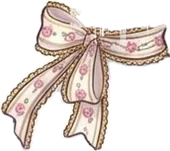
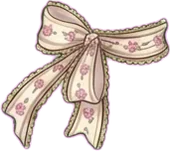
レースリボン6種を、リボンだけの画像から切り抜き直し
Claude-Session: https://claude.ai/code/session_01LsuWBkhUDp3d2Zrt24Lv8i

Changed region(s): [[0.0, 0.0, 1.0, 1.0], [0.4118, 0.5033, 0.4412, 0.5298]]

diff --git a/js/bigbottles.js b/js/bigbottles.js
@@ -109,12 +109,12 @@ const CHARMS = [
   { id: "k07", name: "さくら色のひらひらリボン", w: 155, h: 160, place: "neck", band: [0.27, 0.32, 0.49], kind: "ribbon" },
   { id: "k08", name: "水色のロングリボン", w: 115, h: 160, place: "neck", band: [0.28, 0.28, 0.54], scale: 0.82, kind: "ribbon" },
   // 金のレースのふちどりリボン
-  { id: "l00", name: "水色のレースリボン", w: 170, h: 153, place: "neck", band: [0.718, 0.303, 0.409], kind: "ribbon" },
-  { id: "l01", name: "さくら色のレースリボン", w: 166, h: 151, place: "neck", band: [0.735, 0.244, 0.462], kind: "ribbon" },
-  { id: "l02", name: "クリームのレースリボン", w: 156, h: 143, place: "neck", band: [0.715, 0.253, 0.435], kind: "ribbon" },
-  { id: "l03", name: "水色の花がらレースリボン", w: 170, h: 150, place: "neck", band: [0.662, 0.246, 0.479], kind: "ribbon" },
-  { id: "l04", name: "バラがらのレースリボン", w: 170, h: 151, place: "neck", band: [0.703, 0.296, 0.402], kind: "ribbon" },
-  { id: "l05", name: "ローズのレースリボン", w: 170, h: 150, place: "neck", band: [0.656, 0.19, 0.44], kind: "ribbon" },
+  { id: "l00", name: "水色のレースリボン", w: 170, h: 155, place: "neck", band: [0.717, 0.3, 0.402], kind: "ribbon" },
+  { id: "l01", name: "さくら色のレースリボン", w: 163, h: 147, place: "neck", band: [0.73, 0.21, 0.47], kind: "ribbon" },
+  { id: "l02", name: "クリームのレースリボン", w: 155, h: 143, place: "neck", band: [0.713, 0.252, 0.438], kind: "ribbon" },
+  { id: "l03", name: "水色の花がらレースリボン", w: 170, h: 152, place: "neck", band: [0.666, 0.244, 0.482], kind: "ribbon" },
+  { id: "l04", name: "バラがらのレースリボン", w: 170, h: 151, place: "neck", band: [0.708, 0.291, 0.405], kind: "ribbon" },
+  { id: "l05", name: "ローズのレースリボン", w: 170, h: 152, place: "neck", band: [0.659, 0.198, 0.435], kind: "ribbon" },
 ];
 
 // チャームの画像の場所（シリーズのチャームは charms/シリーズ名/ の中）

diff --git a/js/app.js b/js/app.js
@@ -23,7 +23,7 @@ const KCAL_PER_FAT_G = 7.2;  // 体脂肪1gあたりのカロリー
 // 保存名はすべて「n-app-」で始める（同じサイト上のほかのアプリとまざらないように）
 const STORAGE_KEY = "n-app-data";
 const LEGACY_STORAGE_KEY = "n-undou-bin.v1"; // 前の保存名（自動で引っ越す）
-const APP_VERSION = "11/29-5"; // 更新するたびに変える（設定画面に表示）
+const APP_VERSION = "11/29-6"; // 更新するたびに変える（設定画面に表示）
 
 // ---------- データの読み書き ----------
 

diff --git a/sw.js b/sw.js
@@ -9,8 +9,8 @@
 // ★ プログラムを直したら CODE_VERSION を、今ある画像を描き直したら IMAGE_VERSION を、必ず1つ上げる。
 //   （新しい画像を足しただけなら IMAGE_VERSION はそのまま。足した分だけダウンロードされる）
 importScripts("js/bottles.js", "js/bigbottles.js", "js/series.js");
-const CODE_VERSION = 80;
-const IMAGE_VERSION = 5;
+const CODE_VERSION = 81;
+const IMAGE_VERSION = 6;
 const CODE_CACHE = `n-app-cache-v${CODE_VERSION}`;
 const IMAGE_CACHE = `n-app-images-v${IMAGE_VERSION}`;
 
